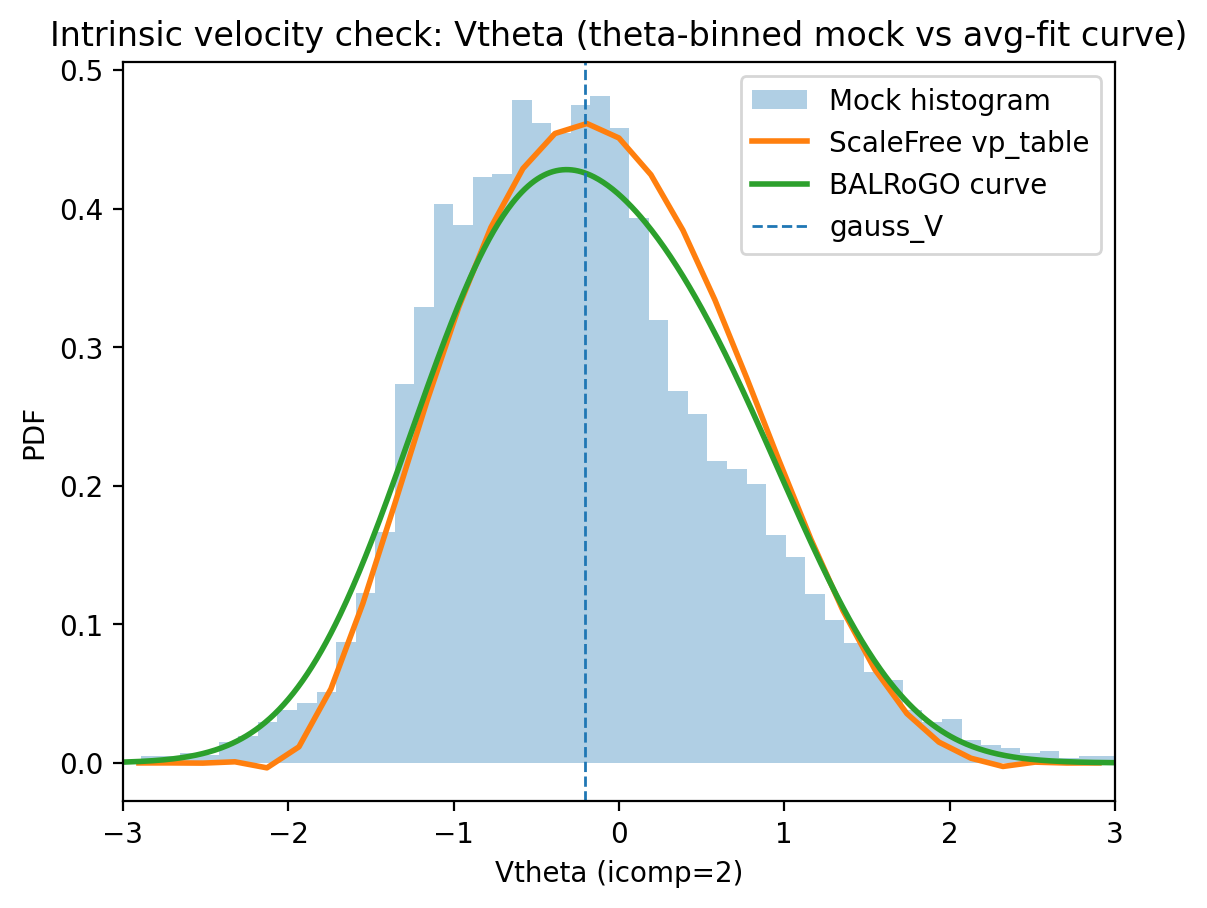
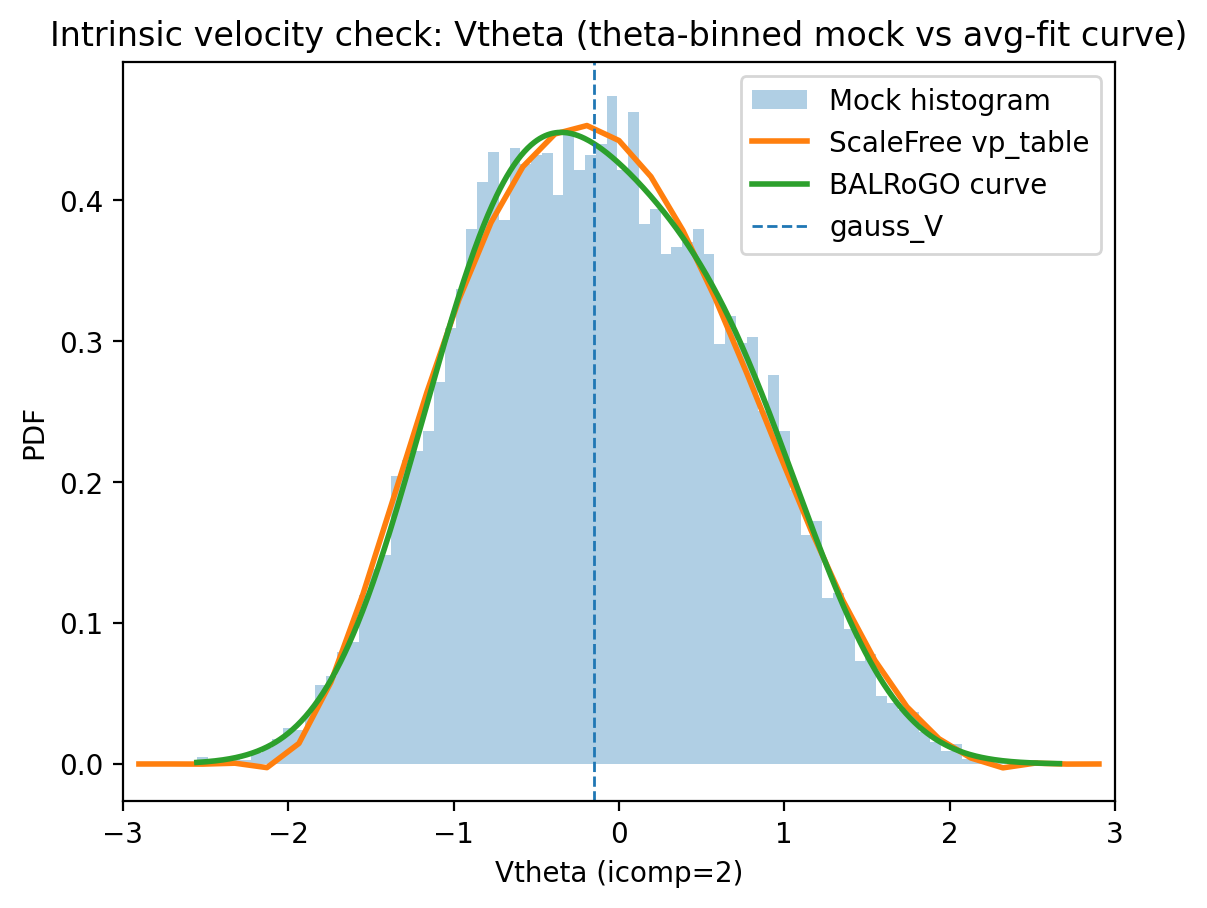
Updated CI fortran launch command

diff --git a/scripts/check_mock_end2end.py b/scripts/check_mock_end2end.py
@@ -189,6 +189,8 @@ def extract_intrinsic_products(res) -> Dict[str, Any]:
                     "gauss_sig": _get("gauss_sig", row),
                     "h3": _get("h3", row),
                     "h4": _get("h4", row),
+                    "true_V": _get("true_V", row),
+                    "true_sig": _get("true_sig", row),
                 }
 
     # vp_table: for intrinsic VPs, parser stores these under vp_table_intrinsic
@@ -317,11 +319,11 @@ def main() -> None:
     # ------------------------------------------------------------------
     model = dict(
         potential=2,
-        gamma=3.0,
-        q=0.6,
-        df=2,
-        beta=-0.2,
-        s=0.0,
+        gamma=2.0,
+        q=0.8,
+        df=1,
+        beta=0.1,
+        s=0.5,
         t=0.0,
     )
 
@@ -362,12 +364,13 @@ def main() -> None:
         row = prod["vp_rows"].get(ic, {})
         if row:
             print(
-                f"icomp={ic}:"
+                f"\nicomp={ic}:"
                 + f" gauss_V={row['gauss_V']:.6g},"
                 + f" gauss_sig={row['gauss_sig']:.6g},"
                 + f" h3={row['h3']:.6g},"
                 + f" h4={row['h4']:.6g}"
             )
+            print(f" true_V={row['true_V']:.6g}," + f" true_sig={row['true_sig']:.6g}")
         else:
             print(f"icomp={ic}: (missing)")
 
